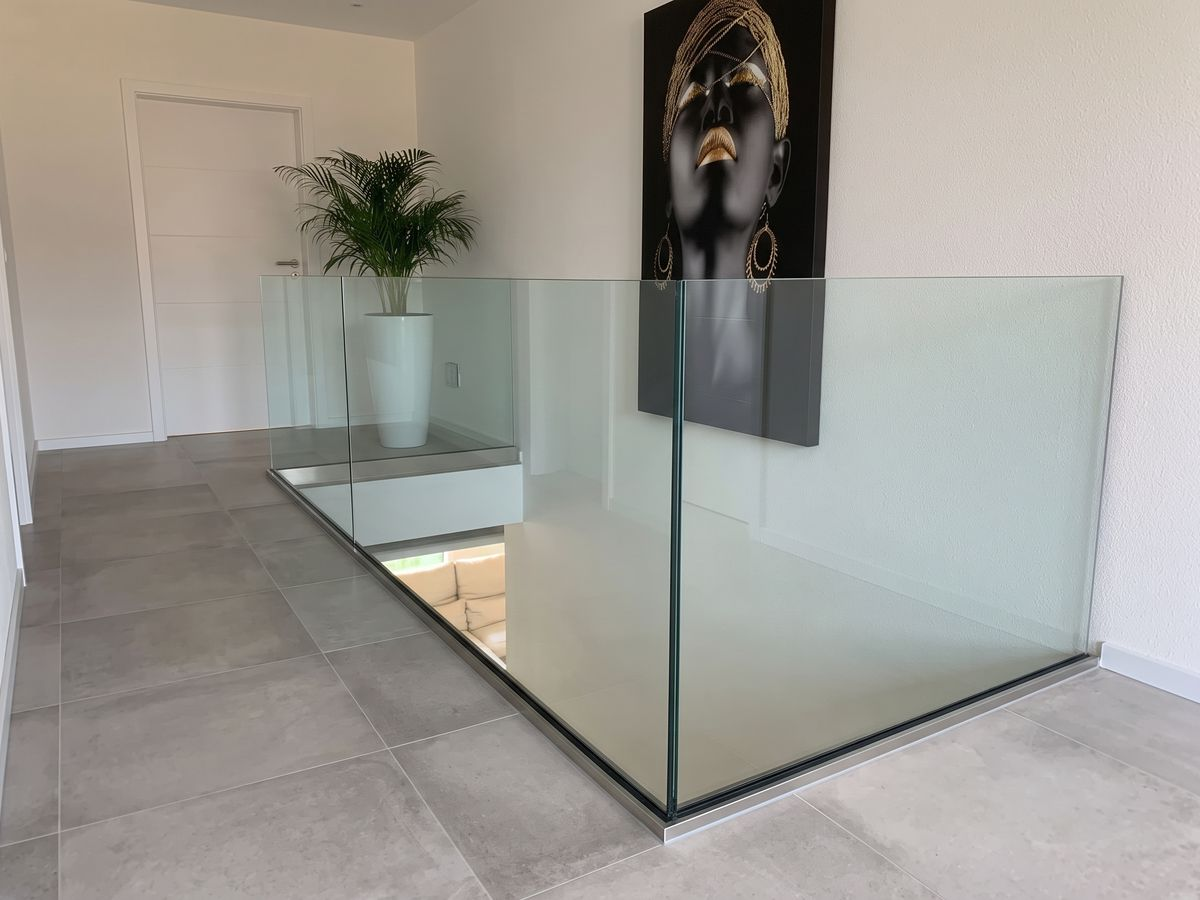
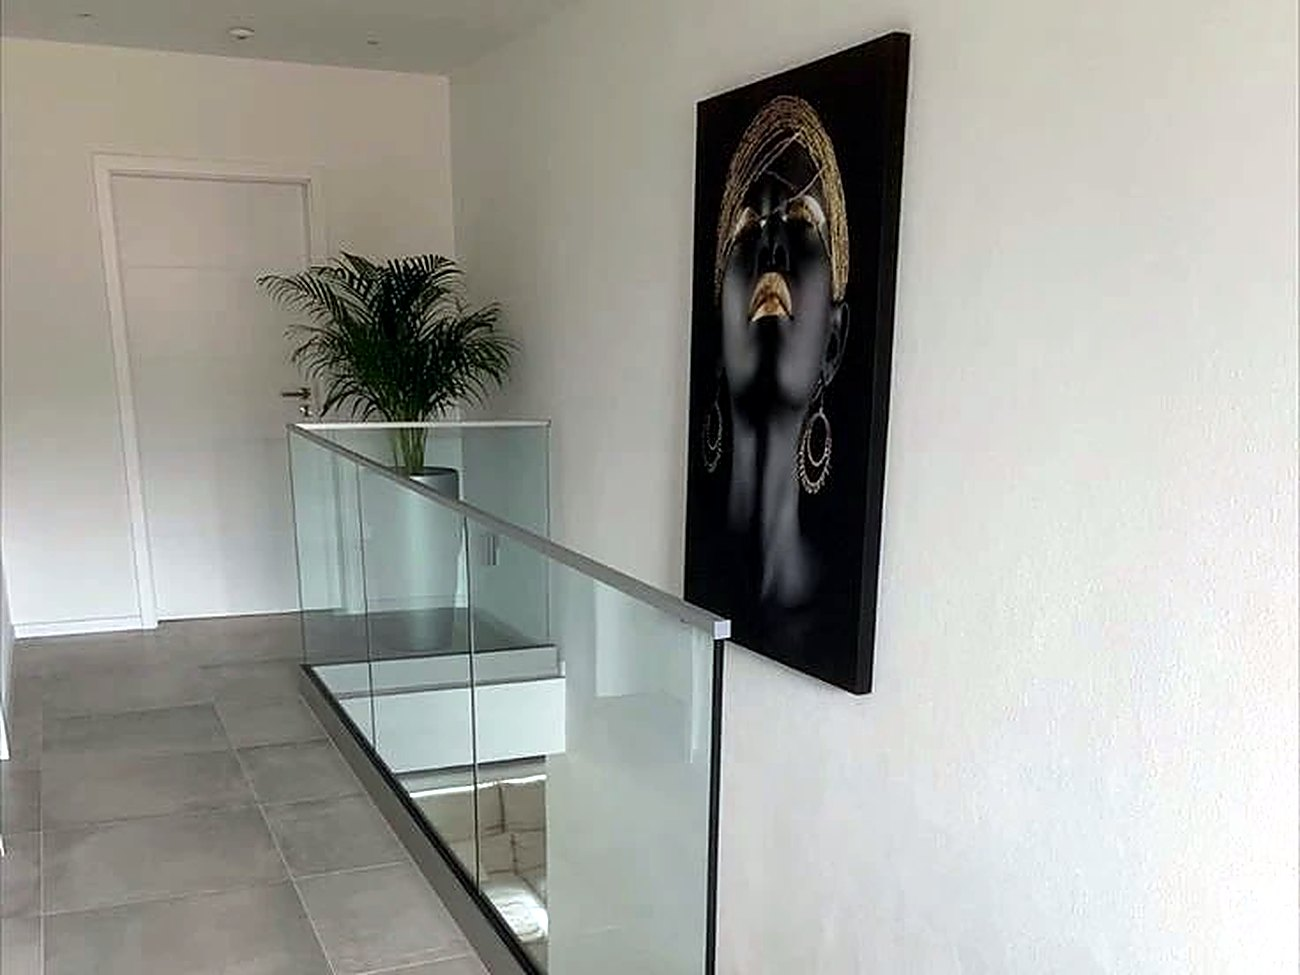
Атриум +3 реальных фото (g-atrium-2,3,4). Козырьки: убраны 2 слабых ИИ-рендера (4,5), добавлен реальный козырёк (g-kozyr-6). В папке козырьков реальный козырёк был только один — остальное перила, их не ставил

diff --git a/index.html b/index.html
@@ -1089,8 +1089,8 @@ f&&f.addEventListener('submit',async(ev)=>{
     banya:['img/g-banya-1.jpg','img/g-banya-2.jpg','img/g-banya-3.jpg'],
     perila:['img/g-perila-1.jpg','img/g-perila-2.jpg','img/g-perila-3.jpg','img/g-perila-4.jpg','img/g-perila-5.jpg'],
     terr:['img/g-terr-1.jpg','img/g-terr-2.jpg','img/g-terr-3.jpg','img/g-terr-4.jpg','img/g-terr-5.jpg'],
-    kozyr:['img/g-kozyr-1.jpg','img/g-kozyr-3.jpg','img/g-kozyr-4.jpg','img/g-kozyr-5.jpg'],
-    atrium:['img/g-atrium-1.jpg'],
+    kozyr:['img/g-kozyr-1.jpg','img/g-kozyr-3.jpg','img/g-kozyr-6.jpg'],
+    atrium:['img/g-atrium-1.jpg','img/g-atrium-2.jpg','img/g-atrium-3.jpg','img/g-atrium-4.jpg'],
     oblic:['img/g-oblic-1.jpg','img/g-oblic-2.jpg','img/g-oblic-3.jpg','img/g-oblic-4.jpg'],
     vitr:['img/g-vitr-1.jpg','img/g-vitr-2.jpg','img/g-vitr-3.jpg'],
     tamb:['img/g-vitr-4.jpg','img/g-vitr-5.jpg']

diff --git a/v2.html b/v2.html
@@ -1089,8 +1089,8 @@ f&&f.addEventListener('submit',async(ev)=>{
     banya:['img/g-banya-1.jpg','img/g-banya-2.jpg','img/g-banya-3.jpg'],
     perila:['img/g-perila-1.jpg','img/g-perila-2.jpg','img/g-perila-3.jpg','img/g-perila-4.jpg','img/g-perila-5.jpg'],
     terr:['img/g-terr-1.jpg','img/g-terr-2.jpg','img/g-terr-3.jpg','img/g-terr-4.jpg','img/g-terr-5.jpg'],
-    kozyr:['img/g-kozyr-1.jpg','img/g-kozyr-3.jpg','img/g-kozyr-4.jpg','img/g-kozyr-5.jpg'],
-    atrium:['img/g-atrium-1.jpg'],
+    kozyr:['img/g-kozyr-1.jpg','img/g-kozyr-3.jpg','img/g-kozyr-6.jpg'],
+    atrium:['img/g-atrium-1.jpg','img/g-atrium-2.jpg','img/g-atrium-3.jpg','img/g-atrium-4.jpg'],
     oblic:['img/g-oblic-1.jpg','img/g-oblic-2.jpg','img/g-oblic-3.jpg','img/g-oblic-4.jpg'],
     vitr:['img/g-vitr-1.jpg','img/g-vitr-2.jpg','img/g-vitr-3.jpg'],
     tamb:['img/g-vitr-4.jpg','img/g-vitr-5.jpg']
